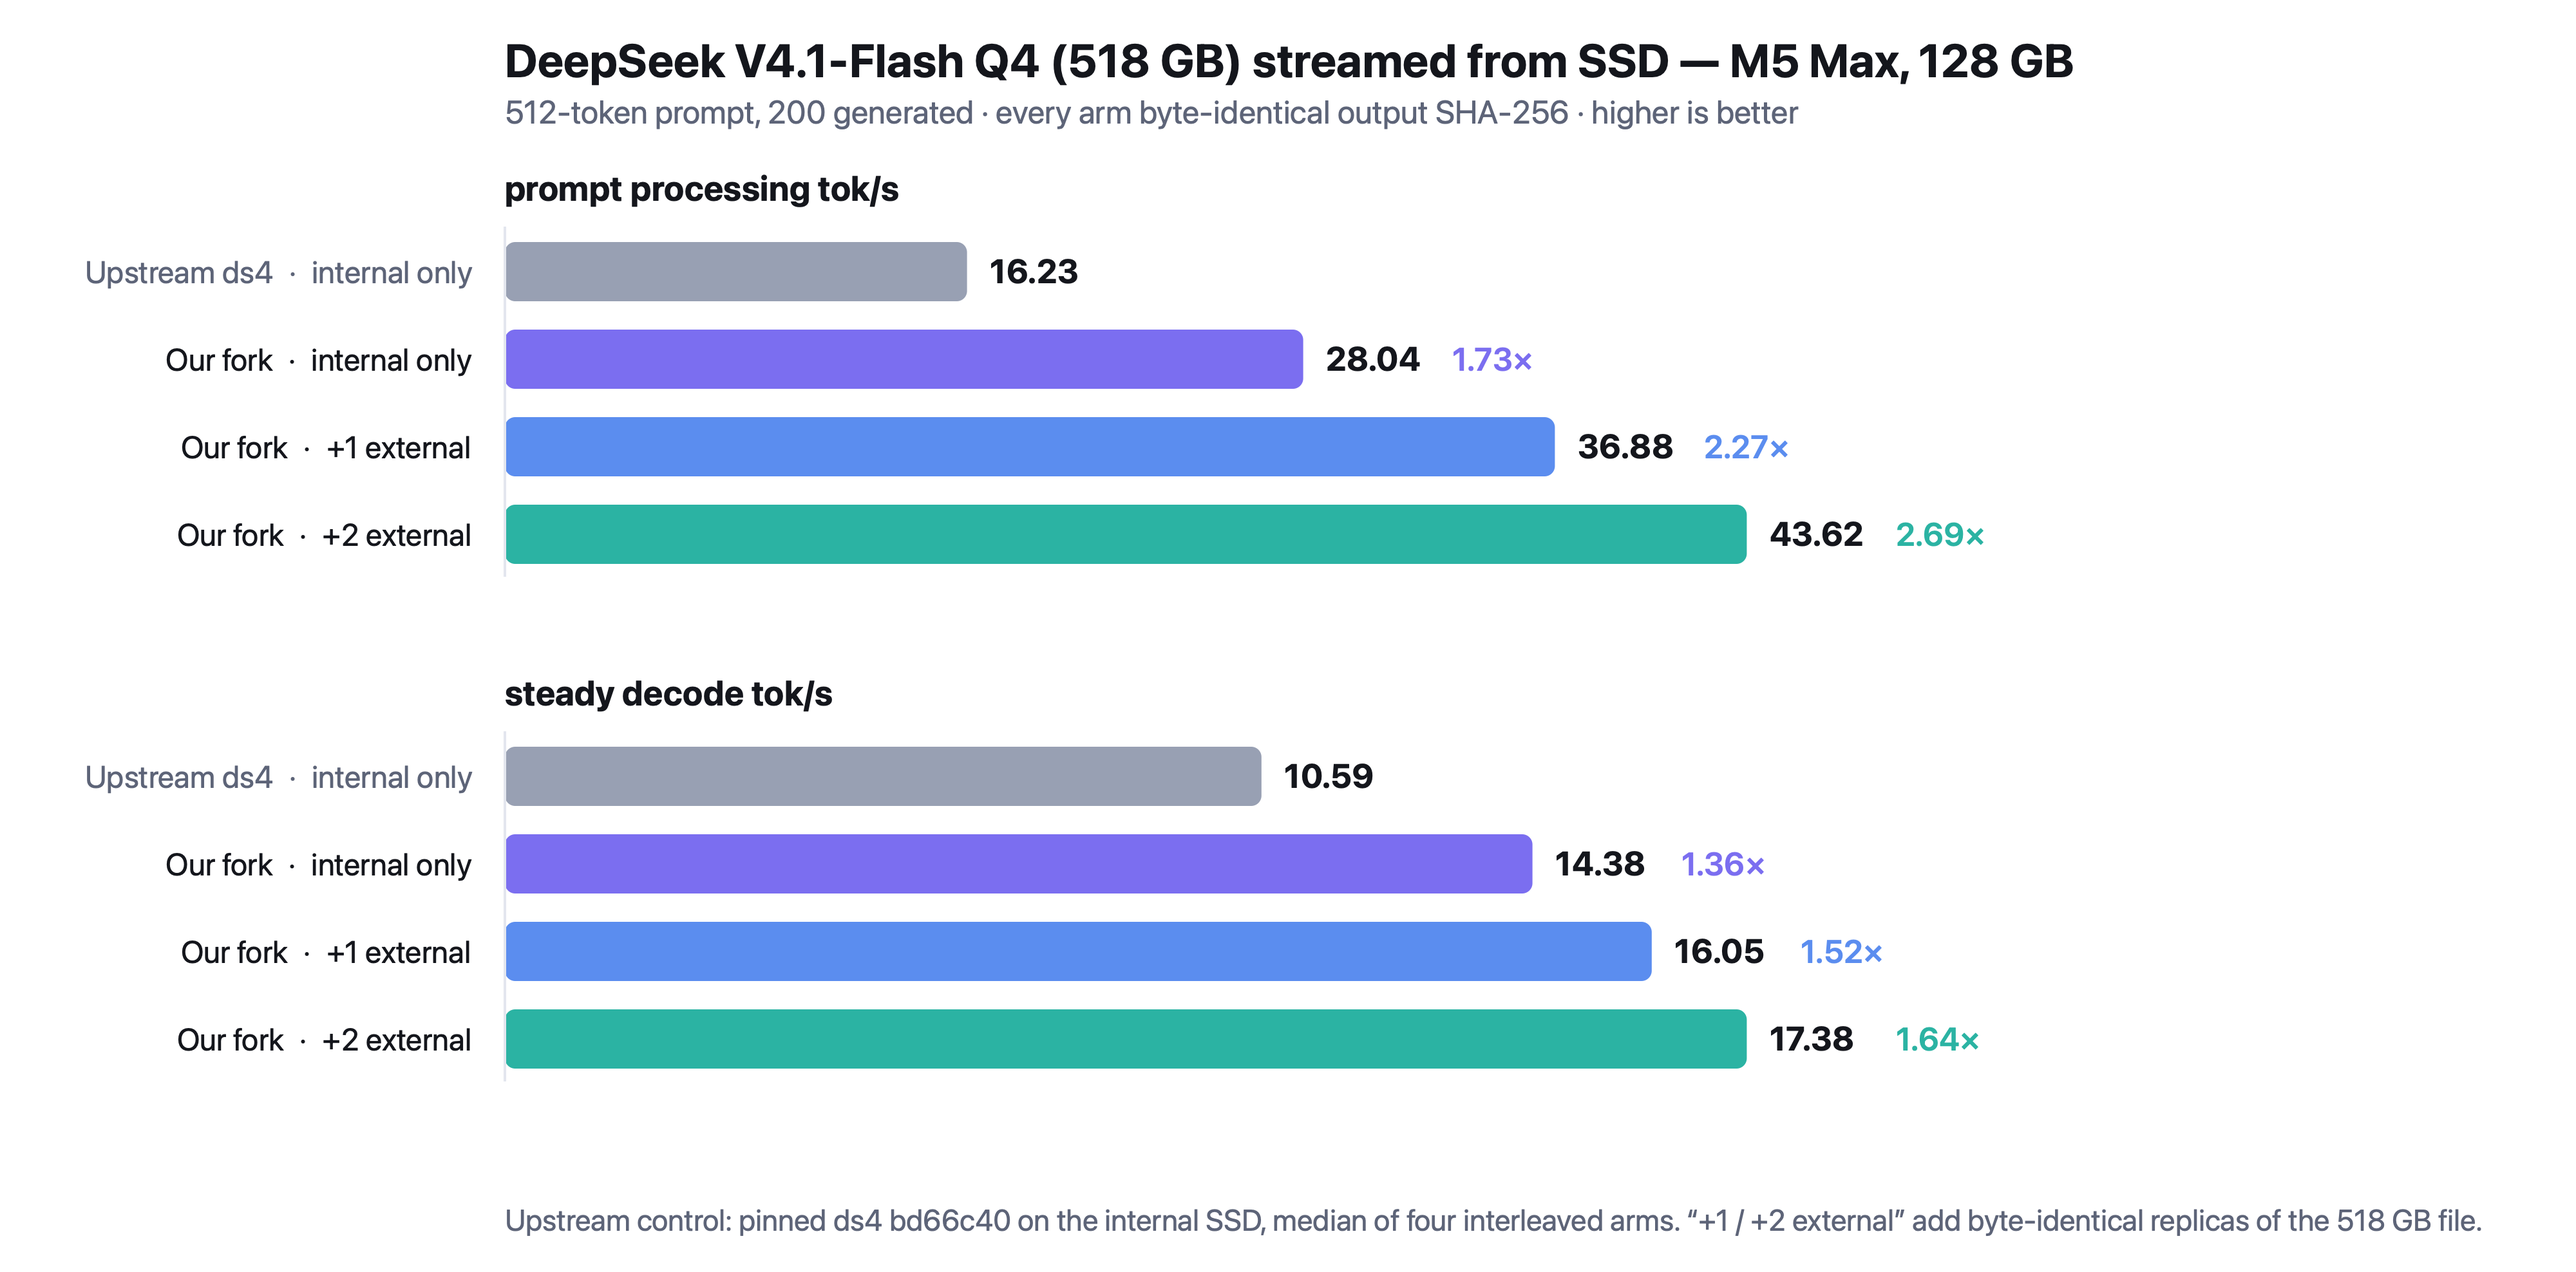
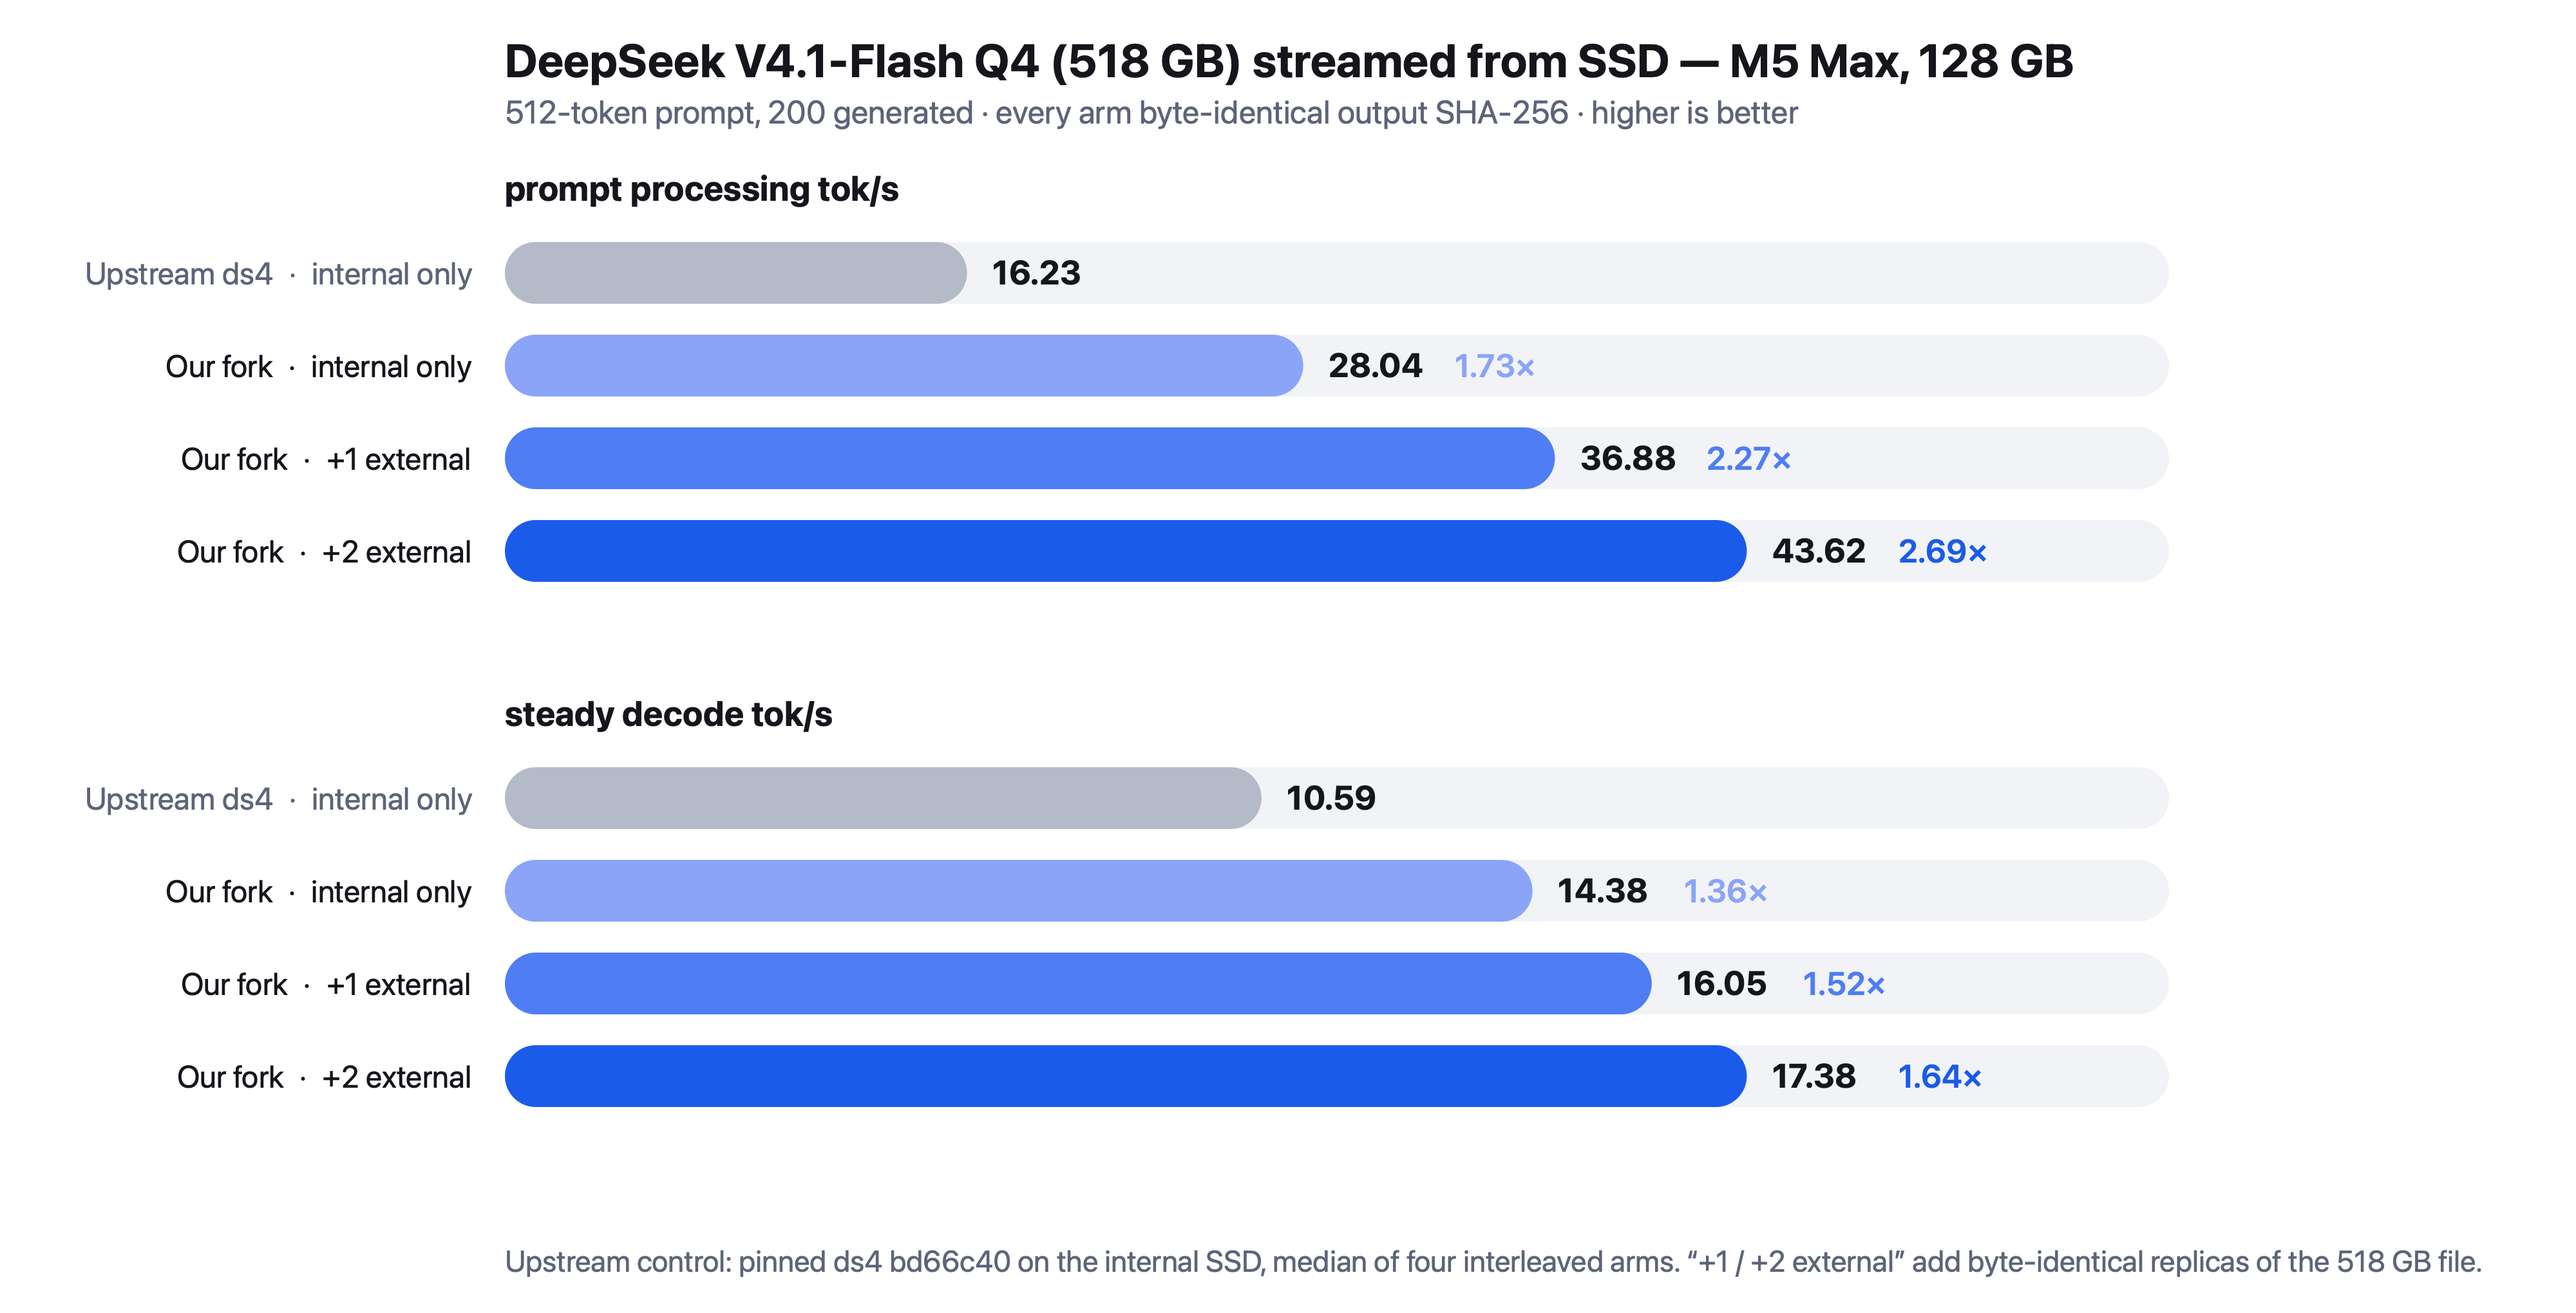
charts: pill bars with tracks, single-hue blue ramp, grey baseline
Claude-Session: https://claude.ai/code/session_01GyKwdksX8gTKkahyvudEAM

diff --git a/charts/make-ladder.py b/charts/make-ladder.py
@@ -8,9 +8,10 @@ def chart(data, dark=False):
     muted   = '#9aa1b2' if dark else '#5d6478'
     grid    = '#2b3040' if dark else '#e3e6ee'
     bg      = '#0d1017' if dark else '#ffffff'
-    base    = '#7c8496' if dark else '#98a0b3'
-    accents = ['#7b6ef0', '#5b8def', '#2bb3a3']
-    W, panel_h, pad_l, pad_r, top = 1000, 196, 196, 26, 56
+    base    = '#6b7280' if dark else '#b4bac7'
+    track   = '#1a1f2b' if dark else '#f1f3f7'
+    accents = ['#8fa9ff', '#5b86f5', '#2f6beb'] if dark else ['#8aa4f7', '#4f7df3', '#1b5bea']
+    W, panel_h, pad_l, pad_r, top = 1000, 204, 196, 26, 56
     rows = []
     for pi, (metric, unit) in enumerate([('prefill', 'prompt processing tok/s'), ('decode', 'steady decode tok/s')]):
         bars = [('Upstream ds4 · internal only', data[metric]['upstream'], base, True)]
@@ -32,22 +33,22 @@ def chart(data, dark=False):
     y = top
     for metric, unit, bars in rows:
         mx = max(v for _, v, _, _ in bars) * 1.34
+        track_w = W - pad_l - pad_r - 132
         out.append(f'<text x="{pad_l}" y="{y+22}" font-size="13.5" font-weight="700" fill="{fg}">{unit}</text>')
         by = y + 38
         for label, v, colour, is_base in bars:
             bw = (W - pad_l - pad_r - 132) * (v / mx)
             gain = v / bars[0][1]
-            out.append(f'<text x="{pad_l-12}" y="{by+16}" font-size="12" text-anchor="end" '
+            out.append(f'<text x="{pad_l-12}" y="{by+16.5}" font-size="12" text-anchor="end" '
                        f'fill="{muted if is_base else fg}">{label}</text>')
-            out.append(f'<rect x="{pad_l}" y="{by}" width="{bw:.1f}" height="23" rx="4" fill="{colour}"'
-                       f'{"" if is_base else ""}/>')
-            out.append(f'<text x="{pad_l+bw+9:.1f}" y="{by+16}" font-size="13" font-weight="700" '
+            out.append(f'<rect x="{pad_l}" y="{by}" width="{track_w:.1f}" height="24" rx="12" fill="{track}"/>')
+            out.append(f'<rect x="{pad_l}" y="{by}" width="{max(bw, 24):.1f}" height="24" rx="12" fill="{colour}"/>')
+            out.append(f'<text x="{pad_l+bw+10:.1f}" y="{by+16.5}" font-size="13" font-weight="700" '
                        f'fill="{fg}">{v:.2f}</text>')
             if not is_base:
-                out.append(f'<text x="{pad_l+bw+58:.1f}" y="{by+16}" font-size="12.5" font-weight="600" '
+                out.append(f'<text x="{pad_l+bw+59:.1f}" y="{by+16.5}" font-size="12.5" font-weight="600" '
                            f'fill="{colour}">{gain:.2f}×</text>')
-            by += 34
-        out.append(f'<line x1="{pad_l}" y1="{y+32}" x2="{pad_l}" y2="{by-6}" stroke="{grid}" stroke-width="1"/>')
+            by += 36
         y += panel_h
     out.append(f'<text x="{pad_l}" y="{H-16}" font-size="11.5" fill="{muted}">'
                f'Upstream control: pinned ds4 bd66c40 on the internal SSD, median of four interleaved arms. '
